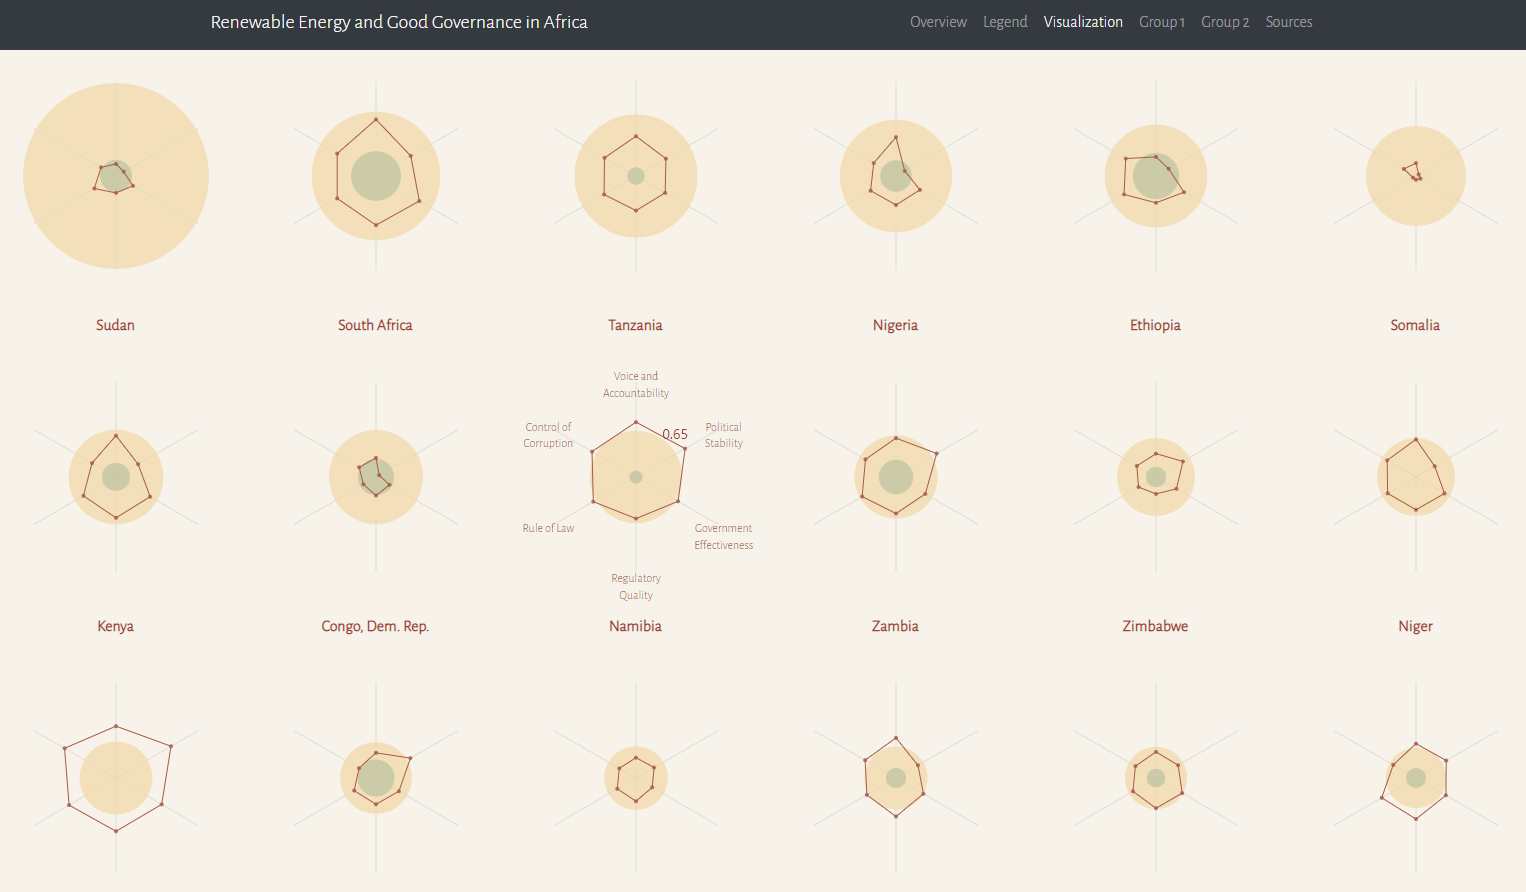
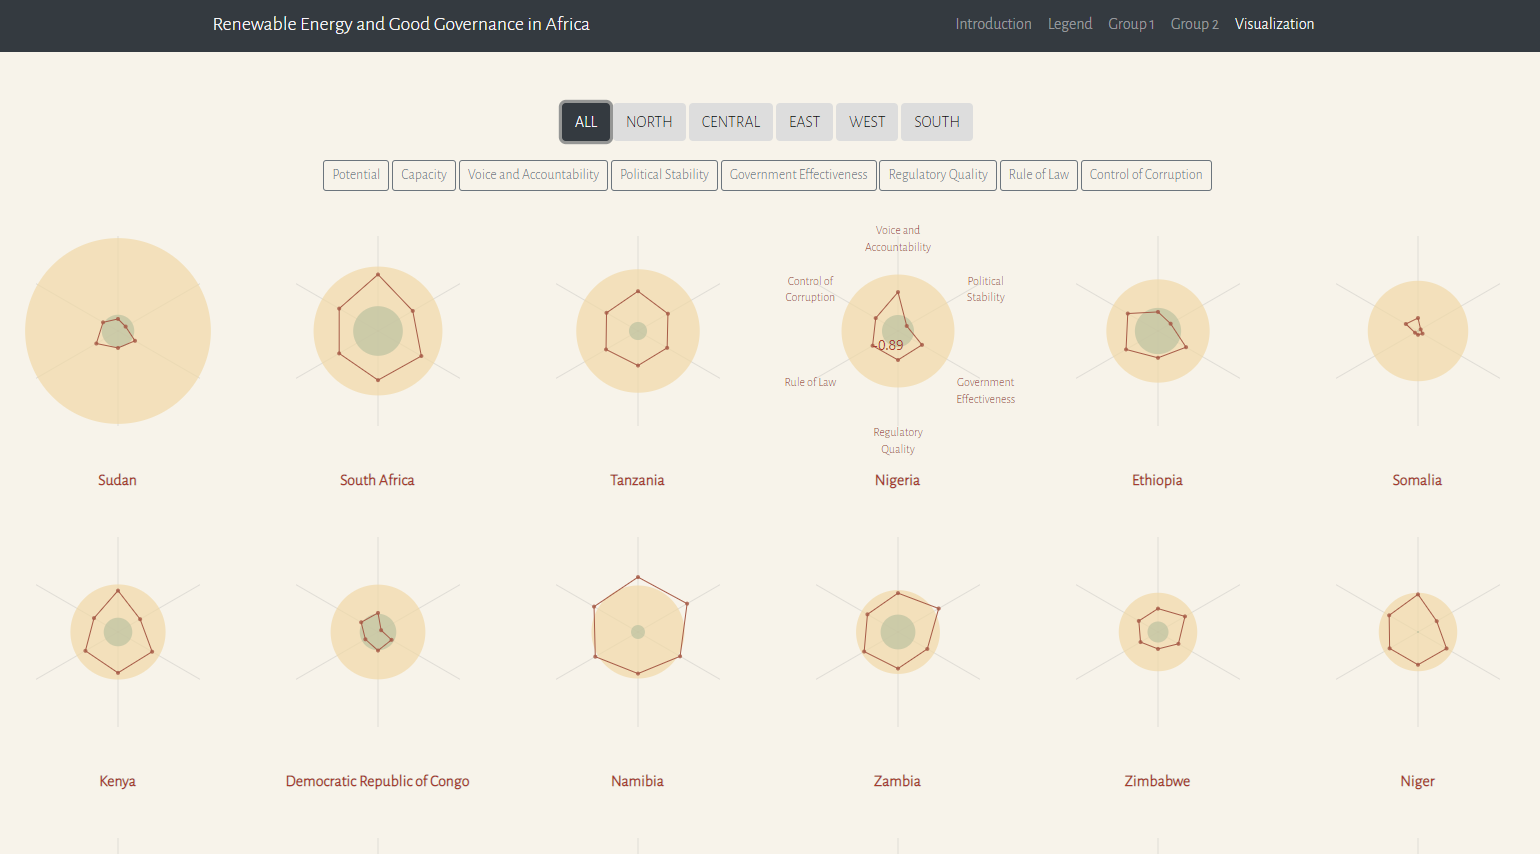
update preview image. add sorting for charts by feature-value. move sources to footer.

diff --git a/dynamics/index.html b/dynamics/index.html
@@ -13,11 +13,17 @@
     <!-- Bootstrap core CSS -->
     <link href="vendor/bootstrap/css/bootstrap.min.css" rel="stylesheet">
 
+    <!-- FontAwesome -->
+    <link rel="stylesheet" href="https://use.fontawesome.com/releases/v5.6.1/css/solid.css" integrity="sha384-aj0h5DVQ8jfwc8DA7JiM+Dysv7z+qYrFYZR+Qd/TwnmpDI6UaB3GJRRTdY8jYGS4" crossorigin="anonymous">
+    <link rel="stylesheet" href="https://use.fontawesome.com/releases/v5.6.1/css/fontawesome.css" integrity="sha384-WK8BzK0mpgOdhCxq86nInFqSWLzR5UAsNg0MGX9aDaIIrFWQ38dGdhwnNCAoXFxL" crossorigin="anonymous">
+
     <!-- Custom styles for this template -->
     <link href="css/scrolling-nav.css" rel="stylesheet">
         
         <!-- Google fonts -->
 		<link href="https://fonts.googleapis.com/css?family=Alegreya+Sans:300,300i" rel="stylesheet">
+
+
 
     <script src="https://d3js.org/d3.v5.min.js"></script>
 		<script src="js/energyChart.js"></script>
@@ -34,10 +40,10 @@
     		  text-align: center;
     		}
     		a:link {
-    		  color:#943128;
+    		  color:#909294;
     		}
     		a:visited {
-    		  color:#6c241d;
+    		  color:#bcbdbe;
     		}
     		a:hover {
     		  color:#bc3f32;
@@ -56,6 +62,23 @@
     		}
     		.showNavTitle .navTitle {
     		  display: inline;
+    		}
+    		#visualization button {
+    		  margin-top: 3px;
+    		}
+    		.featureSort button i {
+    		  display: none;
+    		}
+    		.featureSort button.active {
+    		  background: #333;
+    		  color: #fff;
+    		}
+    		.featureSort button.active.asc i.asc {
+    		  display: inline-block;
+    		}
+    		
+    		.featureSort button.active.desc i.desc {
+    		  display: inline-block;
     		}
 		</style>
   </head>
@@ -86,10 +109,6 @@
             </li>
             <li class="nav-item">
               <a class="nav-link js-scroll-trigger" href="#visualization">Visualization</a>
-
-            <li class="nav-item">
-              <a class="nav-link js-scroll-trigger" href="#sources">Sources</a>
-            </li>
           </ul>
         </div>
       </div>
@@ -193,21 +212,17 @@
               <button type="button" class="btn" data-region="regionW">WEST</button>
               <button type="button" class="btn" data-region="regionS">SOUTH</button>
             </div>
+            <div class="featureSort text-center" style="margin-top: 1em;">
+              <button type="button" class="btn btn-outline-secondary btn-sm" data-feature="potential">Potential <i class="asc fas fa-arrow-up"></i><i class="desc fas fa-arrow-down"></i></button>
+              <button type="button" class="btn btn-outline-secondary btn-sm" data-feature="capacity">Capacity <i class="asc fas fa-arrow-up"></i><i class="desc fas fa-arrow-down"></i></button>
+              <button type="button" class="btn btn-outline-secondary btn-sm" data-feature="voice">Voice and Accountability <i class="asc fas fa-arrow-up"></i><i class="desc fas fa-arrow-down"></i></button>
+              <button type="button" class="btn btn-outline-secondary btn-sm" data-feature="political">Political Stability <i class="asc fas fa-arrow-up"></i><i class="desc fas fa-arrow-down"></i></button>
+              <button type="button" class="btn btn-outline-secondary btn-sm" data-feature="government">Government Effectiveness <i class="asc fas fa-arrow-up"></i><i class="desc fas fa-arrow-down"></i></button>
+              <button type="button" class="btn btn-outline-secondary btn-sm" data-feature="regulatory">Regulatory Quality <i class="asc fas fa-arrow-up"></i><i class="desc fas fa-arrow-down"></i></button>
+              <button type="button" class="btn btn-outline-secondary btn-sm" data-feature="rule">Rule of Law <i class="asc fas fa-arrow-up"></i><i class="desc fas fa-arrow-down"></i></button>
+              <button type="button" class="btn btn-outline-secondary btn-sm" data-feature="corruption">Control of Corruption <i class="asc fas fa-arrow-up"></i><i class="desc fas fa-arrow-down"></i></button>
+            </div>
             <div id="charts"></div>
-          </div>
-        </div>
-      </div>
-    </section>
-
-    <section id="sources" style="background-color:#faf7f1">
-      <div class="container">
-        <div class="row">
-          <div class="col-lg-8 mx-auto">
-            <h2>Sources</h2>
-            <p><sup>1</sup><a href="https://sustainabledevelopment.un.org/sdg16">Sustainable Development Goal 16</a></p>
-            <p><sup>2</sup><a href="http://info.worldbank.org/governance/wgi/#home">World Governance Indicators</a></p>
-            <p><sup>3</sup><a href="https://www.irena.org/publications/2014/Aug/Estimating-the-Renewable-Energy-Potential-in-Africa-A-GIS-based-approach">IRENA: Estimating Renwable Energy Potential in Africa, August 2014</a></p>
-            <p><sup>4</sup><a href="https://www.irena.org/publications/2018/Mar/Renewable-Capacity-Statistics-2018">IRENA: Renewable Capacity Statistics, March 2018</a></p>
           </div>
         </div>
       </div>
@@ -216,8 +231,23 @@
     <!-- Footer -->
     <footer class="py-5 bg-dark">
       <div class="container">
-        <p class="m-0 text-center text-white">A data visualization project by Stephanie Yung, M.S. Data Visualization // Major Studio I 2018 // The New School</p>
+        <div class="row">
+          <div class="col-lg-8 mx-auto">
+            <p class="m-0 text-center text-white">A data visualization project by Stephanie Yung, M.S. Data Visualization // Major Studio I 2018 // The New School</p>
+          </div>
+        </div>
+        <div class="row">
+          <div class="col-mg-12 mx-auto text-center">
+            <p style="font-size:75%">
+              <sup>1</sup><a href="https://sustainabledevelopment.un.org/sdg16">Sustainable Development Goal 16</a>
+              <sup>2</sup><a href="http://info.worldbank.org/governance/wgi/#home">World Governance Indicators</a>
+              <sup>3</sup><a href="https://www.irena.org/publications/2014/Aug/Estimating-the-Renewable-Energy-Potential-in-Africa-A-GIS-based-approach">IRENA: Estimating Renwable Energy Potential in Africa, August 2014</a>
+              <sup>4</sup><a href="https://www.irena.org/publications/2018/Mar/Renewable-Capacity-Statistics-2018">IRENA: Renewable Capacity Statistics, March 2018</a>
+            </p>
+          </div>
+        </div>
       </div>
+      
       <!-- /.container -->
     </footer>
 
@@ -280,6 +310,17 @@
               circle: {
                 potential: d["potential"],
                 capacity: d["Capacity"]
+              },
+              sort: {
+                potential: d["potential"],
+                capacity: d["Capacity"],
+                voice: d["voiceAcc"],
+                political: d["politicalSta"],
+                government: d["govEff"],
+                regulatory: d["regQua"],
+                rule: d["ruleLaw"],
+                corruption: d["controlCor"],
+
               }
             }
             
@@ -314,10 +355,50 @@
           
           $('#visualization .chartDiv').css('display', 'none');
           $('#visualization .'+$(this).data('region')).css('display', 'inline-block');
-          
         });
         $('.regionFilter button').first().click();
         
+        
+        // sorting buttons
+        $('.featureSort button').click(function() {
+          $('.featureSort button').removeClass('active');
+          let $this = $(this);
+          
+          // what feature to sort the list by
+          let sortBy = $this.data('feature');
+          
+          // this will be -1 or 1 multiplier to reverse the custom sort function
+          let sortDir; 
+          
+          // toggle the sort direction with class names
+          if ($this.hasClass('asc')) {
+            sortDir = -1;
+            $this.removeClass('asc').addClass('desc');
+          } else {
+            sortDir = 1;
+            $this.removeClass('desc').addClass('asc');
+          }
+          $this.addClass('active');
+          
+          let charts = $('#charts .chartDiv');
+          charts.sort((a, b) => {
+            // getting data from elements
+            let aData = $(a).data('sort');
+            let bData = $(b).data('sort');
+            
+            // using Number() to case values as numbers instead of strings
+            if (Number(aData[sortBy]) < Number(bData[sortBy])) {
+              return sortDir * -1;
+            } else if (Number(aData[sortBy]) > Number(bData[sortBy])) {
+              return sortDir * 1;
+            } else {
+              return 0;
+            }
+          })
+          charts.each((idx, chart) => {
+            $('#charts').append(chart);
+          });
+        });
       })
     </script>
   </body>

diff --git a/dynamics/js/energyChart.js b/dynamics/js/energyChart.js
@@ -6,6 +6,7 @@ var energyChart = function(rowData) {
   chartDiv.setAttribute('class', 'chartDiv')
   chartDiv.classList += ' energy' + rowData.code;
   chartDiv.classList += ' regionALL region' + rowData.region;
+  $(chartDiv).data('sort', rowData.sort);
             
   let data = rowData.radar;
   let circleData = rowData.circle;
